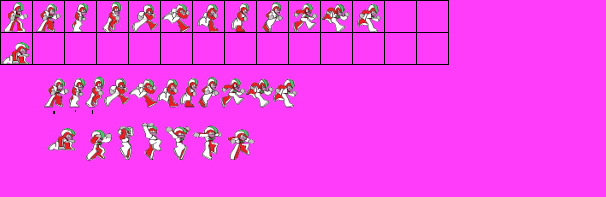
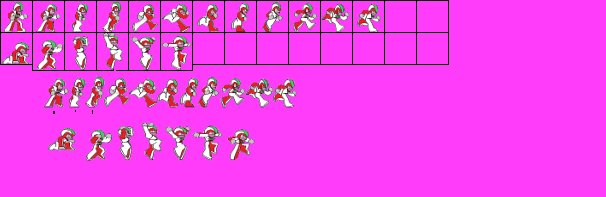
0.6.4.120
ADICION:
- Ahora la imagen del jugador es animada :D

BUGFIXES:
- El juego ya no crashea cuando el jugador oprime varias veces a la
derecha al morir.
- Ahora el mute se mantiene de forma normal cuando se reinicia un nivel.

Changed region(s): [[0.0594, 0.1523, 0.3267, 0.3655], [0.3267, 0.0609, 0.3564, 0.0914], [0.1188, 0.0914, 0.1485, 0.1218]]

diff --git a/code/player.py b/code/player.py
@@ -18,31 +18,35 @@ class Player(pygame.sprite.Sprite):
 		pygame.sprite.Sprite.__init__(self)
 		
 		self.load_images()
-		
-		self.direction = 'Right'
-		if gravi:
-			self.graviswitch = True
-		else:
-			self.graviswitch = False
+		self.set_states(gravi)
 		
 		self.image = pygame.image.load('images/Isaac/IsaacCol.png').convert()
 		self.rect = self.image.get_rect()
-		self.image = self.stand_image
+		self.image = self.jump_ani[4]
+		self.jump_ani_frame = 25
 		
 		#self.image = pygame.image.load('images/Isaac2.png').convert()
 		self.rect.x = x_init + 8
 		self.rect.y = y_init
 		
+		
+		self.init_x = self.rect.x
+		self.init_y = self.rect.y	
+	
+	def set_states(self, gravi):
+		self.state = 'Stand'
+		self.air = True
+		self.direction = 'Right'
 		self.dead = False
 		self.win = False
-		self.init_x = self.rect.x
-		self.init_y = self.rect.y
-		
 		self.bounce = False
 		self.crouch = False
-		
+		if gravi:
+			self.graviswitch = True
+		else:
+			self.graviswitch = False
 	def load_images(self):
-		sheet = pygame.image.load('images/Isaac/yirorescale2.png').convert()
+		sheet = pygame.image.load('images/Isaac/yirorescale.png').convert()
 		
 		self.stand_image = get_image(sheet, 0, 0, 32, 32)
 		self.stand_image.set_colorkey(C.CHROMA_KEY)
@@ -50,20 +54,31 @@ class Player(pygame.sprite.Sprite):
 		self.crouch_image = get_image(sheet, 0, 32, 32, 32)
 		self.crouch_image.set_colorkey(C.CHROMA_KEY)
 		
-		'''
-		self.stand_image = pygame.image.load('images/Isaac/stand.png').convert()
-		self.stand_image.set_colorkey(C.CHROMA_KEY)
+		self.walk_ani = []
+		self.walk_ani_cod = [(32,0),(64,0),(96,0), (128,0), (160,0), (192,0), (224,0), (256,0), (288,0), (320,0), (352,0)]
+		self.walk_ani_frame = 0
+		for i in self.walk_ani_cod:
+			cuadro = get_image(sheet, i[0], i[1], 32,32).convert()
+			cuadro.set_colorkey(C.CHROMA_KEY)
+			self.walk_ani.append(cuadro)
 		
-		self.crouch_image = pygame.image.load('images/Isaac/crouch.png').convert()
-		self.crouch_image.set_colorkey(C.CHROMA_KEY)
-		'''
-	
+		self.jump_ani = []
+		self.jump_ani_cod = [(32,32), (64,32), (96,32), (128,32), (160,32)]
+		self.jump_ani_frame = 0
+		for i in self.jump_ani_cod:
+			cuadro = get_image(sheet, i[0], i[1], 32,38).convert()
+			cuadro.set_colorkey(C.CHROMA_KEY)
+			self.jump_ani.append(cuadro)
+		
 	def reboot(self, grav):
 		self.dead = False
 		self.bounce = False
 		self.crouch = False
 		self.image = self.stand_image
 		self.direction = 'Right'
+		self.state = 'Stand'
+		self.image = self.jump_ani[4]
+		self.jump_ani_frame = 25
 		
 		self.spd_y = 0
 		self.spd_x = 0
@@ -121,6 +136,11 @@ class Player(pygame.sprite.Sprite):
 				elif bloxy.spd_y < 0:
 					self.spd_y = 0
 					self.rect.bottom = bloxy.rect.top
+					self.air = False
+					self.walk_ani_frame = 0
+					self.image = self.stand_image
+					if self.direction == 'Left':
+						self.image = pygame.transform.flip(self.image, True, False)
 			else:
 				self.dead = True
 				sound.dead.play()
@@ -141,9 +161,19 @@ class Player(pygame.sprite.Sprite):
 			elif bloxy.spd_y < 0 and not self.touch_N(colis):
 				self.spd_y = 0
 				self.rect.bottom = bloxy.rect.top
+				self.air = False
+				self.walk_ani_frame = 0
+				self.image = self.stand_image
+				if self.direction == 'Left':
+					self.image = pygame.transform.flip(self.image, True, False)
 			elif bloxy.spd_y < 0 and self.spd_y > 0: #BUGFIX para que el jugador pueda caer de una caja en movimiento a otra
 				self.spd_y = 0
 				self.rect.bottom = bloxy.rect.top
+				self.air = False
+				self.walk_ani_frame = 0
+				self.image = self.stand_image
+				if self.direction == 'Left':
+					self.image = pygame.transform.flip(self.image, True, False)
 			elif bloxy.spd_y > 0 and self.spd_y < 0:
 				self.spd_y = 0
 				self.rect.top = bloxy.rect.bottom
@@ -203,7 +233,7 @@ class Player(pygame.sprite.Sprite):
 			self.dead = True
 			sound.dead.play()
 	
-	def jumpbox(self): #Detecta cuando el jugador llego a una puerta
+	def jumpbox(self):
 		self.rect.y -=1
 		hit_list = pygame.sprite.spritecollide(self, self.level, False)
 		self.rect.y +=1
@@ -271,10 +301,16 @@ class Player(pygame.sprite.Sprite):
 			if block.ID != self.ID:
 				if self.spd_y > 0 or block.spd_y < 0:
 					self.rect.bottom = block.rect.top
+					self.air = False
+					self.walk_ani_frame = 0
+					self.image = self.stand_image
+					if self.direction == 'Left':
+						self.image = pygame.transform.flip(self.image, True, False)
 				elif self.spd_y < 0 or block.spd_y > 0:
 					self.rect.top = block.rect.bottom
 				# Detener movimiento vertical
 				self.spd_y = 0
+				
 	def collision_x(self):
 		hit_list = pygame.sprite.spritecollide(self, self.level, False)
 		for block in hit_list:
@@ -288,12 +324,12 @@ class Player(pygame.sprite.Sprite):
 		self.death()
 		self.door()
 		self.checkpoint(times)
+		self.ani_update()
 		if not self.graviswitch:
 			self.graviswitch_touch()
 		self.jumpbox()
 		
 		if self.crouch:
-			#print 'box'
 			self.box_ride()
 		
 		if not C.SLOW_MODE:
@@ -321,23 +357,61 @@ class Player(pygame.sprite.Sprite):
 				
 				self.bounce = False
 			
+	def ani_update(self):
+		#print self.walk_ani_frame
+		if self.state == 'Walk' and not self.air:
+			
+			if self.walk_ani_frame % 4 == 0:
+				self.image = self.walk_ani[self.walk_ani_frame / 4]
+				if self.direction == 'Left':
+					self.image = pygame.transform.flip(self.image, True, False)
+					
+				if self.walk_ani_frame == 40:
+					self.walk_ani_frame = 1
+			
+			self.walk_ani_frame += 1
+		
+		elif self.air:
+			#print self.jump_ani_frame
+			if self.jump_ani_frame < 30:
+				if self.jump_ani_frame % 6 == 0:
+					self.image = self.jump_ani[self.jump_ani_frame / 6]
+					if self.direction == 'Left':
+						self.image = pygame.transform.flip(self.image, True, False)
+						
+					#if self.jump_ani_frame == 16:
+						#self.jump_ani_frame = 1
+				
+				self.jump_ani_frame += 1
 		
 	def go_left(self):
+		self.state = 'Walk'
 		self.spd_x = -2
 		if self.direction == 'Right':
-			self.image = pygame.transform.flip(self.image, True, False)
+			#self.image = pygame.transform.flip(self.image, True, False)
 			self.direction = 'Left'
 	def go_right(self):
+		self.state = 'Walk'
 		self.spd_x = 2
 		if self.direction == 'Left':
-			self.image = pygame.transform.flip(self.image, True, False)
+			#self.image = pygame.transform.flip(self.image, True, False)
 			self.direction = 'Right'
 	def stop(self):
 		self.spd_x = 0
+		self.state = 'Stand'
+		if not self.air:
+			self.image = self.stand_image
+		if self.direction == 'Left':
+			self.image = pygame.transform.flip(self.image, True, False)
+		self.walk_ani_frame = 0
+		
 	def jump(self):
 		self.rect.y +=2
 		hit_list = pygame.sprite.spritecollide(self, self.level, False)
 		self.rect.y -=2
+		self.air = True
+		
+		self.jump_ani_frame = 0
 		for i in hit_list:
 			if i.ID != self.ID:
 				self.spd_y = -3

diff --git a/code/level.py b/code/level.py
@@ -100,6 +100,10 @@ def Level(nombre, MUTE_MUSIC, prev_song, evento_final = None): #Archivo sin exte
 						player.init_x, player.init_y = pos_x, pos_y
 						pygame.time.wait(1000) #Espera para simular la carga y semipenalizar al jugador por reiniciar.
 						pygame.mixer.music.play(-1)
+						pygame.mixer.music.pause()
+						if not MUTE_MUSIC:
+							
+							pygame.mixer.music.unpause()
 					elif pause == 'Menu':
 						return False, False, False, MUTE_MUSIC, prev_song
 					elif pause == 'Salir':

diff --git a/code/dead_player.py b/code/dead_player.py
@@ -46,11 +46,13 @@ def DeadPlayer(prev_screen):
 					elif cursor_state == 1:
 						return False, False
 				elif event.key == pygame.K_RIGHT:
-					cursor_state +=1
-					sound.cursor.play()
+					if cursor_state == 0:
+						cursor_state +=1
+						sound.cursor.play()
 				elif event.key == pygame.K_LEFT:
-					cursor_state -=1
-					sound.cursor.play()
+					if cursor_state == 1:
+						cursor_state -=1
+						sound.cursor.play()
 		
 		clock.tick(MAX_FPS)
 		
